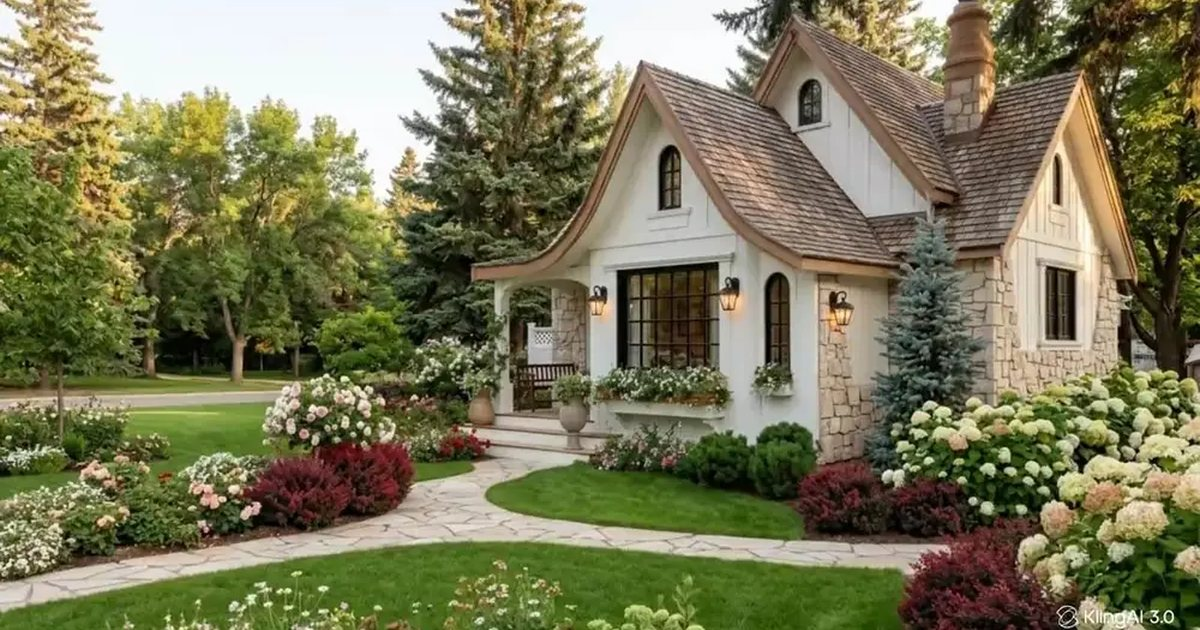
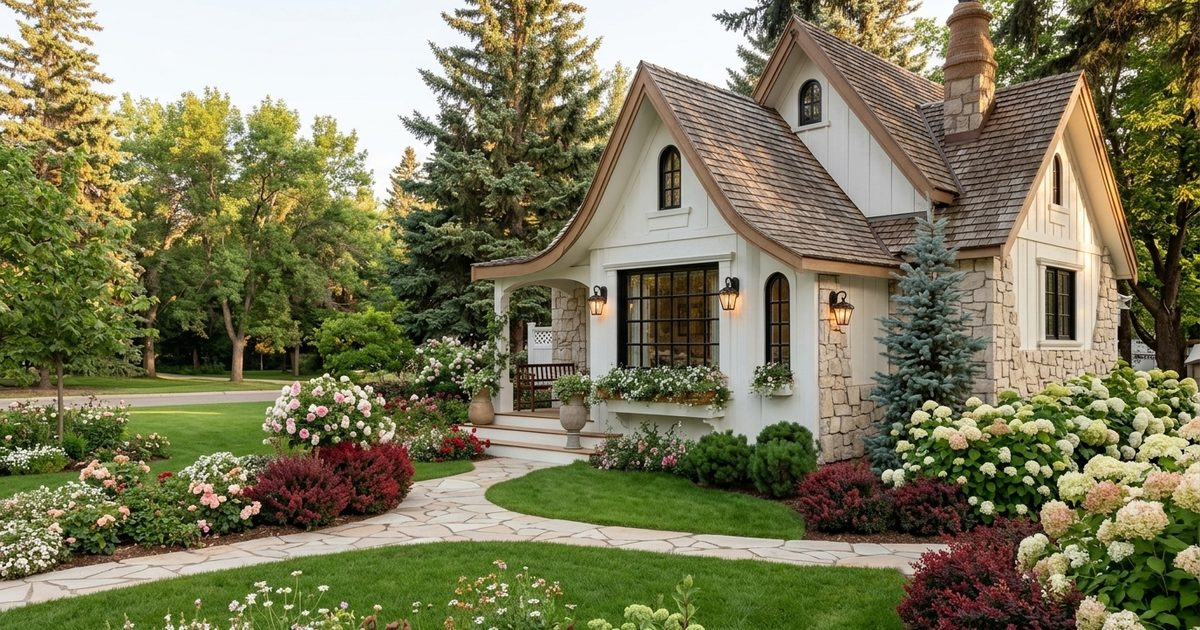
Add files via upload

diff --git a/index.html b/index.html
@@ -26,7 +26,7 @@
 <link rel="apple-touch-icon" href="apple-touch-icon.png">
 <link rel="preconnect" href="https://fonts.googleapis.com">
 <link rel="preconnect" href="https://fonts.gstatic.com" crossorigin>
-<link rel="preload" as="image" href="assets/hero-poster-1ece85d9.webp" fetchpriority="high">
+<link rel="preload" as="image" href="assets/hero-photo-04efccb4.webp" fetchpriority="high">
 <link rel="preload" as="style" href="https://fonts.googleapis.com/css2?family=Manrope:wght@400;500;600;700&family=Cormorant+Garamond:wght@500;600&family=Playfair+Display:wght@800;900&display=swap" onload="this.onload=null;this.rel='stylesheet'">
 <noscript><link rel="stylesheet" href="https://fonts.googleapis.com/css2?family=Manrope:wght@400;500;600;700&family=Cormorant+Garamond:wght@500;600&family=Playfair+Display:wght@800;900&display=swap"></noscript>
 <style>
@@ -38,20 +38,23 @@ h2{font-size:clamp(2rem,4vw,3.25rem);color:var(--g)}h3{font-size:1.375rem;font-w
 a{color:inherit}button{font:inherit;cursor:pointer}
 :focus-visible{outline:3px solid var(--bord);outline-offset:3px}.hero :focus-visible,header.open :focus-visible{outline-color:#fff}
 .w{max-width:1480px;margin:0 auto;padding:0 40px}
-section{padding:28px 0 0}
+section{padding:120px 0 0}
 .btn{display:inline-flex;align-items:center;justify-content:center;min-height:48px;background:var(--g);color:var(--bg);border:0;border-radius:99px;padding:0 28px;font:600 .95rem var(--sans);text-decoration:none;transition:background .25s}
 .btn:hover{background:var(--g0)}
 .btn.r{background:var(--bord);color:#fff}.btn.r:hover{background:#62202D}
 .btn.o{background:none;color:var(--g);box-shadow:inset 0 0 0 1.5px var(--g)}.btn.o:hover{background:var(--g);color:var(--bg)}
-.hero .btn.r{background:var(--bg);color:var(--g)}.hero .btn.r:hover{background:#fff}
+.hero .btn.r{background:var(--bg);color:var(--lr)}.hero .btn.r:hover{background:#fff}
 .btn.l{background:none;color:#fff;box-shadow:inset 0 0 0 1.5px rgba(255,255,255,.85)}.btn.l:hover{background:rgba(255,255,255,.14)}
+/* кнопки на фото: світлі, з червоними літерами (червоний текст прямо на фото не читався б) */
+.hero .btn.l{background:rgba(245,241,233,.9);color:var(--lr);box-shadow:none}
+.hero .btn.l:hover{background:#fff}
 /* header */
 header{position:fixed;left:0;right:0;top:env(safe-area-inset-top,0px);z-index:5;pointer-events:none;transition:background .3s,box-shadow .3s}
 header.dk{background:var(--paper);box-shadow:0 8px 30px rgba(23,64,44,.1)}
 .nav{pointer-events:auto;max-width:1480px;margin:0 auto;padding:14px 40px;display:flex;align-items:center;gap:16px}
-.logo{font:900 clamp(2.4rem,6vw,5.5rem)/1 'Playfair Display',Georgia,serif;letter-spacing:-.02em;color:var(--lr);text-decoration:none;margin-right:auto;transition:font-size .3s}
+.logo{font:900 clamp(1.8rem,4.5vw,4.125rem)/1 'Playfair Display',Georgia,serif;letter-spacing:-.02em;color:var(--lr);text-decoration:none;margin-right:auto;transition:font-size .3s}
 .logo i{font-style:normal;color:var(--lg)}
-header.dk .logo{font-size:clamp(2rem,3.4vw,2.8rem)}
+header.dk .logo{font-size:clamp(1.5rem,2.55vw,2.1rem)}
 nav{display:flex;gap:4px}
 nav a{padding:9px 18px;border-radius:99px;text-decoration:none;font-weight:600;font-size:.95rem;color:#fff;transition:background .2s;white-space:nowrap}
 nav a:hover,nav a.on{background:rgba(255,255,255,.18)}
@@ -61,7 +64,11 @@ header.dk nav a:hover,header.dk nav a.on{background:rgba(23,64,44,.08)}
 .lg button{background:none;border:0;border-radius:99px;padding:5px 12px;font-weight:700;font-size:.82rem;color:#fff}
 .lg button.on{background:#fff;color:var(--g)}
 header.dk .lg{box-shadow:inset 0 0 0 1.5px var(--ln)}header.dk .lg button{color:var(--ink)}header.dk .lg button.on{background:var(--g);color:#fff}
-.gb{background:var(--lr);color:#fff;border:0;border-radius:99px;padding:0 20px;min-height:44px;font-weight:700}
+/* кошик — прозора кнопка з контуром, як перемикач мови поруч */
+.gb{background:none;color:#fff;border:0;border-radius:99px;padding:0 20px;min-height:44px;font-weight:700;display:inline-flex;align-items:center;justify-content:center;gap:8px;box-shadow:inset 0 0 0 1.5px rgba(255,255,255,.6);transition:background .2s}
+.gb:hover{background:rgba(255,255,255,.14)}
+header.dk .gb{color:var(--ink);box-shadow:inset 0 0 0 1.5px var(--ln)}
+header.dk .gb:hover{background:rgba(23,64,44,.08)}
 
 .bg{display:none;width:44px;height:44px;border:0;background:none;color:#fff;position:relative}
 .bg span,.bg span::before{content:"";position:absolute;left:11px;width:22px;height:2px;background:currentColor;transition:transform .25s}
@@ -70,26 +77,23 @@ header.dk .bg{color:var(--ink)}
 header.open .bg span{transform:rotate(45deg)}header.open .bg span::before{transform:translateY(7px) rotate(-90deg)}
 /* hero */
 @supports(height:100svh){:root{--vh:100svh}} /* висота hero до запуску JS = висоті першого екрана на телефоні, щоб не було стрибка при завантаженні */
-#scroll-container{position:relative;height:calc(var(--vh,100vh)*2)}
+#scroll-container{position:relative;height:var(--vh,100vh)}
 .hero{position:relative;width:100vw;margin-left:calc(50% - 50vw);background:var(--g0);color:#fff;overflow:hidden}
-#scroll-container .hero{position:sticky;top:0;height:var(--vh,100vh)}
-.hero img,.hero video{position:absolute;inset:0;width:100%;height:100%;object-fit:cover;object-position:50% 55%}
-/* У файлі відео вшиті чорні смуги (по 28 px зверху й знизу з 720). Блок відео вищий на 720/664 і зсунутий угору на 28/664, тож смуги виходять за межі .hero (overflow:hidden). Постер — перший кадр без смуг (1280×664), тому перехід постер→відео без стрибка. Відео з’являється плавно, коли справді почало грати. */
-.hero video{height:calc(100%*720/664);top:calc(-100%*28/664);bottom:auto;opacity:0;transition:opacity .4s ease}
-.hero video.on{opacity:1}
-.hs{position:absolute;inset:0;background:linear-gradient(90deg,rgba(15,42,29,.68),rgba(15,42,29,.08) 65%),linear-gradient(180deg,rgba(15,42,29,.5),transparent 28%,rgba(15,42,29,.5))}
+#scroll-container .hero{position:relative;height:100%}
+.hero img{position:absolute;inset:0;width:100%;height:100%;object-fit:cover;object-position:50% 55%}
+.hs{position:absolute;inset:0;background:linear-gradient(0deg,rgba(15,42,29,.62),rgba(15,42,29,.30) 38%,transparent 62%),linear-gradient(90deg,rgba(15,42,29,.26),transparent 54%),linear-gradient(180deg,rgba(15,42,29,.45),transparent 22%)}
+/* легкий шар на фото + м’яка тінь під білим текстом, щоб фото лишалось яскравим, а текст — читабельним */
+.hero h1,.hero .ha p{text-shadow:0 2px 20px rgba(15,42,29,.45)}
+header:not(.dk):not(.open) nav a:not([data-p=catalog]){text-shadow:0 1px 10px rgba(15,42,29,.55)}
 .hc{position:relative;height:100%;display:flex;flex-direction:column;justify-content:flex-end;gap:32px;padding:120px max(40px,calc(50vw - 700px)) 72px;will-change:transform,opacity}
 .hero h1{font-size:clamp(2.75rem,6.4vw,5.25rem);line-height:1.02;max-width:18ch;text-wrap:balance;margin:0;color:#fff}
 .ha{display:flex;flex-direction:column;align-items:flex-start;gap:24px}
 .hero .ha p{margin:0;color:#fff;max-width:46ch;font-size:1.125rem}
 .hero .ha p:first-child{display:flex;gap:12px;flex-wrap:wrap}.hero .ha p:last-child{order:-1}
-#hero-overlay{position:absolute;inset:0;z-index:5;display:flex;align-items:center;justify-content:center;text-align:center;padding:48px;opacity:0;pointer-events:none;will-change:opacity,transform}
-.hero-overlay-label{font:500 clamp(2.25rem,5vw,4rem)/1.05 var(--serif);color:#fff;margin:0;text-shadow:0 2px 24px rgba(0,0,0,.4)}
-@media(prefers-reduced-motion:reduce){#scroll-container{height:auto}#scroll-container .hero{position:relative;height:auto;min-height:90svh}.hero video,#hero-overlay{display:none}}
 /* page titles */
 .pg:not(#home)>section:first-child{padding-top:0}
 .pg:not(#home)>section:first-child>h2:first-child{background:var(--sand);box-shadow:0 0 0 100vmax var(--sand);clip-path:inset(0 -100vmax);padding:75px 0 28px;margin:0 0 28px}
-.pg:not(#home){margin-top:28px}
+.pg:not(#home){margin-top:120px}
 .sub{font:600 clamp(1.5rem,2.4vw,2rem)/1.2 var(--serif);margin:-8px 0 32px}
 .more{margin:28px 0 0;text-align:center}
 /* product grid + cards */
@@ -131,28 +135,28 @@ header.open .bg span{transform:rotate(45deg)}header.open .bg span::before{transf
 .sp .t{position:absolute;left:0;right:0;bottom:0;z-index:1;padding:24px;display:flex;flex-direction:column;gap:4px}
 .sp b{font:500 1.7rem/1.1 var(--serif)}.sp small{font-size:.9rem}
 /* finder */
-#finder .q{max-width:none;background:var(--paper);border:1px solid var(--ln);border-radius:20px;padding:64px}
+#finder .q{max-width:none;background:var(--paper);border:1px solid var(--ln);border-radius:0;padding:64px}
 #fq .st{font:600 .9rem var(--sans);color:var(--bord)}
 #fq h3{font:500 clamp(2rem,3.6vw,3rem)/1.1 var(--serif);margin:12px 0 0}
 .bar{height:6px;background:var(--sage);border-radius:9px;margin-bottom:28px}.bar i{display:block;height:100%;background:var(--g);border-radius:9px;transition:width .3s}
 #fq .opts{display:grid;grid-template-columns:repeat(auto-fit,minmax(200px,1fr));gap:12px;margin-top:32px}
-#fq .chip{border:1px solid var(--ln);background:var(--bg);border-radius:14px;padding:22px 20px;font:500 1.05rem var(--sans);text-align:left;color:var(--ink);transition:background .2s,color .2s}
+#fq .chip{border:1px solid var(--ln);background:var(--bg);border-radius:0;padding:22px 20px;font:500 1.05rem var(--sans);text-align:left;color:var(--ink);transition:background .2s,color .2s}
 #fq .chip:hover{background:var(--g);color:#fff;border-color:var(--g)}
 #fq .grid{grid-template-columns:repeat(auto-fill,minmax(210px,1fr));margin:32px 0}
 /* guide + reviews */
 #arts{display:grid;grid-template-columns:repeat(4,1fr);gap:28px}
-#arts .card,.two .card{background:var(--paper);border:1px solid var(--ln);border-radius:12px}
+#arts .card,.two .card{background:var(--paper);border:1px solid var(--ln);border-radius:0}
 #arts .card .b,.two .card .b{display:flex;flex-direction:column;gap:12px;padding:32px}
 #arts .card h3,.two .card h3{font-size:1.6rem}#arts .card p,.two .card p{margin:0}
 .two{display:grid;grid-template-columns:1fr 1fr;gap:28px}
 .two .card:first-child{background:var(--g);border-color:var(--g);color:#EAF2EA}
-#guide>section+section,#reviews>section+section{padding-top:28px}
+#guide>section+section,#reviews>section+section{padding-top:120px}
 #rv{display:grid;grid-template-columns:repeat(3,1fr);gap:28px}
-.rv{display:flex;flex-direction:column;gap:14px;padding:32px;background:var(--paper);border:1px solid var(--ln);border-radius:12px}
+.rv{display:flex;flex-direction:column;gap:14px;padding:32px;background:var(--paper);border:1px solid var(--ln);border-radius:0}
 .rv .stars{color:var(--bord);letter-spacing:.12em}
 .rv p{margin:0}.rv .who{margin-top:auto;display:flex;flex-direction:column;font-size:.9rem}.rv .who small{color:var(--mut)}
 /* cart + checkout */
-#gp{position:fixed;right:24px;top:calc(84px + env(safe-area-inset-top,0px));width:min(360px,calc(100% - 32px));max-height:calc(100vh - 110px);overflow-y:auto;background:var(--paper);border:1px solid var(--ln);border-radius:16px;padding:22px;z-index:6;display:none;box-shadow:0 16px 40px rgba(23,64,44,.16)}
+#gp{position:fixed;right:24px;top:calc(84px + env(safe-area-inset-top,0px));width:min(360px,calc(100% - 32px));max-height:calc(100vh - 110px);overflow-y:auto;background:var(--paper);border:1px solid var(--ln);border-radius:0;padding:22px;z-index:6;display:none;box-shadow:0 16px 40px rgba(23,64,44,.16)}
 .gh{font:600 1.5rem var(--serif);margin:0 0 .5em}
 #gp ul{padding:0;list-style:none;margin:8px 0}#gp li{display:flex;align-items:center;justify-content:space-between;gap:8px;padding:6px 0}
 #gp li>span:first-child{flex:1;min-width:0}#gp .lp{white-space:nowrap;min-width:4.5em;text-align:right}
@@ -161,17 +165,17 @@ header.open .bg span{transform:rotate(45deg)}header.open .bg span::before{transf
 .qt button{width:26px;height:26px;border-radius:50%;border:0;background:var(--sage);color:var(--g);font:700 1rem/1 var(--sans);padding:0 0 2px}.qt button:hover{background:var(--g);color:#fff}.qt b{min-width:1.2em;text-align:center}
 #co{position:fixed;inset:0;z-index:20;display:flex;overflow-y:auto;padding:24px 16px}
 .co-bd{position:fixed;inset:0;background:rgba(15,42,29,.62)}
-.co-box{position:relative;background:var(--paper);border-radius:18px;width:min(920px,100%);margin:auto;padding:40px}
+.co-box{position:relative;background:var(--paper);border-radius:0;width:min(920px,100%);margin:auto;padding:40px}
 .co-x{position:absolute;top:14px;right:16px;width:44px;height:44px;border:0;border-radius:50%;background:var(--sage);color:var(--g);font:700 1.5rem/1 var(--sans);padding:0 0 3px}.co-x:hover{background:var(--g);color:#fff}
 .co-box h3{font-size:clamp(1.8rem,3vw,2.4rem);margin:0 48px 0 0}
 .co-box h4{font:600 .95rem var(--sans);color:var(--bord);margin:0 0 14px}
 .co-grid{display:grid;grid-template-columns:1.2fr 1fr;gap:32px;margin-top:24px;align-items:start}
 #cof label{display:flex;flex-direction:column;gap:6px;font-weight:600;font-size:.92rem;margin-bottom:14px}
-#cof input[type=text],#cof input[type=tel],#cof textarea{font:400 1rem var(--sans);padding:13px 16px;border:1px solid var(--ln);border-radius:10px;background:#fff;color:var(--ink);width:100%;resize:vertical}
+#cof input[type=text],#cof input[type=tel],#cof textarea{font:400 1rem var(--sans);padding:13px 16px;border:1px solid var(--ln);border-radius:0;background:#fff;color:var(--ink);width:100%;resize:vertical}
 #cof input:user-invalid{border-color:var(--bord)}#cof h4:nth-of-type(2){margin-top:10px}
 .co-pay{display:flex;flex-direction:column}#cof .co-pay label{flex-direction:row;align-items:center;gap:10px;font-weight:500;margin-bottom:8px}
 #cof .co-pay input{accent-color:var(--g);width:18px;height:18px;margin:0}
-.co-sum{background:var(--sand);border-radius:14px;padding:24px}
+.co-sum{background:var(--sand);border-radius:0;padding:24px}
 .co-sum ul{list-style:none;margin:0;padding:0}.co-sum li{display:flex;justify-content:space-between;gap:12px;padding:9px 0;border-bottom:1px solid rgba(31,42,35,.12)}
 .co-sum li em{font-style:normal;color:var(--mut)}.co-sum li b{white-space:nowrap}
 .cot{display:flex;justify-content:space-between;font-weight:800;font-size:1.2rem;padding:14px 0 8px}.cot b{color:var(--bord)}
@@ -188,10 +192,10 @@ footer .fb{margin-top:48px;padding-top:20px;border-top:1px solid rgba(255,255,25
 /* responsive */
 @media(max-width:1100px){.grid{grid-template-columns:repeat(3,1fr);gap:24px 20px}#arts{grid-template-columns:1fr 1fr}#rv{grid-template-columns:1fr 1fr}.nav{padding:12px 24px}.w{padding:0 24px}.hc{padding-inline:24px}}
 @media(max-width:900px){.sp-grid{grid-template-columns:1fr 1fr}.two{grid-template-columns:1fr}.co-grid{grid-template-columns:1fr}footer .fg{grid-template-columns:1fr 1fr}footer .fg>div:first-child{grid-column:1/-1}}
-/* Компактна шапка (бургер) тепер вмикається до 1280px: на планшетах повний ряд меню не вміщувався й виштовхував мову та «Мій сад» за екран. Шрифти й розміри не змінено. */
+/* Компактна шапка (бургер) тепер вмикається до 1280px: на планшетах повний ряд меню не вміщувався й виштовхував мову та кошик за екран. Шрифти й розміри не змінено. */
 @media(max-width:1280px){.bg{display:block;order:4}.lg{order:2}.gb{order:3}nav{display:none}header.open nav{display:flex;position:fixed;inset:0;z-index:-1;background:var(--g0);flex-direction:column;justify-content:center;align-items:flex-start;padding:0 32px;gap:6px}header.open nav a{font:500 2.25rem/1.2 var(--serif);padding:8px 0;color:#fff}header.open nav a.on{background:none;color:#E39AA8}header.open .logo,header.open .logo i,header.open .bg{color:#fff}header.open .gb,header.open .lg{visibility:hidden}}
 @media(max-width:760px){
-section{padding-top:32px}.pg:not(#home){margin-top:32px}footer{margin-top:32px;padding-top:48px}
+section{padding-top:72px}.pg:not(#home){margin-top:72px}footer{margin-top:32px;padding-top:48px}
 .w{padding:0 20px}.hc{padding:120px 20px 48px}.nav{padding:10px 16px;gap:8px}
 .bg{display:block;order:4}.lg{order:2}.gb{order:3;padding:0 14px;font-size:.88rem}
 nav{display:none}header.open nav{display:flex;position:fixed;inset:0;z-index:-1;background:var(--g0);flex-direction:column;justify-content:center;align-items:flex-start;padding:0 32px;gap:6px}
@@ -208,7 +212,7 @@ header.open .logo,header.open .logo i,header.open .bg{color:#fff}header.open .gb
 #q{max-width:none}
 #finder .q{padding:32px 20px}#fq .grid{grid-template-columns:1fr 1fr;gap:36px 14px}
 #arts,#rv{grid-template-columns:1fr;gap:16px}.two{gap:16px}
-#gp{top:auto;bottom:0;left:0;right:0;width:auto;border-radius:18px 18px 0 0;max-height:70vh}
+#gp{top:auto;bottom:0;left:0;right:0;width:auto;border-radius:0;max-height:70vh}
 #co{padding:0}.co-box{border-radius:0;min-height:100%;padding:28px 20px}
 }
 /* Поява блоків при прокручуванні */
@@ -242,9 +246,9 @@ header.open .logo,header.open .logo i,header.open .bg{color:#fff}header.open .gb
 .ai.op .ap{grid-template-rows:1fr}
 .ai.op .ap p{opacity:1;transform:none;transition-delay:.12s}
 /* Фінал */
-.fin{margin-top:72px;padding:0 0 32px;background:var(--g0);position:relative;overflow:hidden;color:var(--bg)}
+.fin{margin-top:120px;padding:0 0 32px;background:var(--g0);position:relative;overflow:hidden;color:var(--bg)}
 .fin .fg,.fin .fb{position:relative}.fin .fg{padding-top:64px;border-top:1px solid rgba(255,255,255,.14);max-width:1200px}.fin .btn:hover{text-decoration:none}
-.fin::before{content:"";position:absolute;inset:-40% -20%;background:radial-gradient(closest-side,rgba(123,42,58,.55),transparent 70%) 20% 30%/60% 60% no-repeat,radial-gradient(closest-side,rgba(29,91,58,.7),transparent 70%) 80% 70%/60% 60% no-repeat;animation:glow 14s ease-in-out infinite alternate;pointer-events:none}
+.fin::before{content:"";position:absolute;inset:-40% -20%;background:radial-gradient(closest-side,rgba(29,91,58,.7),transparent 70%) 20% 30%/60% 60% no-repeat,radial-gradient(closest-side,rgba(29,91,58,.7),transparent 70%) 80% 70%/60% 60% no-repeat;animation:glow 14s ease-in-out infinite alternate;pointer-events:none}
 @keyframes glow{to{transform:translate3d(6%,-4%,0) rotate(8deg)}}
  .fin-in{position:relative;padding:112px 20px 48px;text-align:center;max-width:860px;margin:0 auto}
 .fin-k{margin:0 0 20px;font:600 .8rem var(--sans);letter-spacing:.4em;color:rgba(245,241,233,.6)}
@@ -261,20 +265,27 @@ header.open .logo,header.open .logo i,header.open .bg{color:#fff}header.open .gb
 @media(max-width:900px){.steps{grid-template-columns:1fr 1fr;gap:36px 24px}.steps::before,.steps::after{display:none}}
 @media(max-width:600px){.steps{grid-template-columns:1fr;gap:28px;padding-left:76px}.steps::before,.steps::after{display:block;left:27px;right:auto;top:28px;bottom:28px;width:2px;height:auto}.steps::after{transform-origin:top;transform:scaleY(var(--p))}.sn{position:absolute;left:-76px;top:0}.stp h3{margin-top:10px}.fin-in{padding:72px 20px 32px}.ap p{padding-right:8px}}
 @media(prefers-reduced-motion:reduce){.rvl [data-rv],.fin-h .w8,.fin-p,.fin-b,.fin-k{opacity:1!important;transform:none!important;filter:none!important;transition:none!important}.fin::before{animation:none}.ap,.ap p,.pm,.pm::after{transition:none}}
+/* «Каталог» у меню — червона кнопка */
+header nav a[data-p=catalog]{background:var(--lr);color:#fff}
+header nav a[data-p=catalog]:hover,header nav a[data-p=catalog].on,header.dk nav a[data-p=catalog],header.dk nav a[data-p=catalog]:hover,header.dk nav a[data-p=catalog].on{background:var(--lr);color:#fff}
+header nav a[data-p=catalog]:hover,header.dk nav a[data-p=catalog]:hover{background:#8C1414}
+header.open nav a[data-p=catalog],header.open nav a[data-p=catalog].on{padding:8px 24px;background:var(--lr);color:#fff}
+/* відстані між секціями: 120px на комп’ютері й планшеті, 72px на телефоні (правило стоїть останнім, щоб перебити базові) */
+@media(max-width:760px){section{padding-top:72px}.pg:not(#home){margin-top:72px}.fin{margin-top:72px}}
 </style>
 </head><body>
 <header><div class="nav"><a class="logo" href="#home">VERD<i>E</i></a>
 <nav><a href="#home" data-p="home">Головна</a><a href="#finder" data-p="finder">Підбір рослин</a><a href="#catalog" data-p="catalog">Каталог</a><a href="#guide" data-p="guide">Гід і доставка</a><a href="#reviews" data-p="reviews">Відгуки</a></nav>
 <div class="lg" role="group" aria-label="Мова / Language"><button data-l="uk" class="on" aria-pressed="true">UA</button><button data-l="en" aria-pressed="false">EN</button></div>
-<button class="gb" id="gbtn">Мій сад: <span id="gc">0</span></button><button class="bg" id="bg" type="button" aria-label="Меню" aria-expanded="false"><span></span></button></div></header>
-<div id="gp"><p class="gh">Мій сад</p><ul id="gl"></ul><div id="gt"></div><button class="btn r" id="gco" type="button" hidden>Оформити замовлення</button></div>
+<button class="gb" id="gbtn" aria-label="Кошик"><svg width="20" height="20" viewBox="0 0 24 24" fill="none" stroke="currentColor" stroke-width="2" stroke-linecap="round" stroke-linejoin="round" aria-hidden="true"><circle cx="9" cy="21" r="1"/><circle cx="20" cy="21" r="1"/><path d="M1 1h4l2.68 13.39a2 2 0 0 0 2 1.61h9.72a2 2 0 0 0 2-1.61L23 6H6"/></svg><span id="gc">0</span></button><button class="bg" id="bg" type="button" aria-label="Меню" aria-expanded="false"><span></span></button></div></header>
+<div id="gp"><p class="gh">Кошик</p><ul id="gl"></ul><div id="gt"></div><button class="btn r" id="gco" type="button" hidden>Оформити замовлення</button></div>
 <main class="w">
 <noscript><p style="padding:96px 20px 20px;max-width:640px">Для роботи каталогу, підбору рослин і кошика потрібен увімкнений JavaScript.</p></noscript>
 <div class="pg" id="home">
-<div id="scroll-container"><div class="hero" id="hero"><img src="assets/hero-poster-1ece85d9.webp" alt="Затишний будинок у саду з гортензіями" width="1280" height="664" fetchpriority="high" decoding="async"><video id="bg-video" muted loop playsinline preload="none" aria-hidden="true" width="1280" height="720" poster="assets/hero-poster-1ece85d9.webp" data-src="assets/hero-video-loop-7c3a1e52.mp4"></video><div class="hs"></div><div class="hc"><h1>Створимо сад, де захочеться бути</h1><div class="ha"><p><a class="btn r" href="#finder">Підібрати рослини</a><a class="btn l" href="#catalog">Дивитись каталог</a></p><p>Продаємо рослини, які перетворять вашу ділянку на сад мрії</p></div></div><div id="heroart" hidden></div><div id="hero-overlay"></div></div></div>
+<div id="scroll-container"><div class="hero" id="hero"><img src="assets/hero-photo-04efccb4.webp" alt="Затишний будинок у саду з гортензіями" width="1376" height="768" fetchpriority="high" decoding="async"><div class="hs"></div><div class="hc"><h1>Створимо сад, де захочеться бути</h1><div class="ha"><p><a class="btn r" href="#finder">Підібрати рослини</a><a class="btn l" href="#catalog">Дивитись каталог</a></p><p>Продаємо рослини, які перетворять<br>вашу ділянку на сад мрії</p></div></div><div id="heroart" hidden></div></div></div>
 <section><h2>Підбір рослин для вашого простору</h2><p class="sub">Де ви садитимете?</p><div class="grid" id="spaces"></div></section>
 <section class="hw" aria-labelledby="hw-t"><h2 id="hw-t">Як це працює</h2><p class="sub">Від ідеї до саду — чотири кроки</p>
-<ol class="steps" id="steps"><li class="stp"><span class="sn" aria-hidden="true">01</span><h3>Підбір</h3><p>Відповідаєте на кілька питань про ділянку, світло й ґрунт — ми пропонуємо рослини, що приживуться.</p></li><li class="stp"><span class="sn" aria-hidden="true">02</span><h3>Замовлення</h3><p>Додаєте рослини в «Мій сад» і оформлюєте замовлення за хвилину.</p></li><li class="stp"><span class="sn" aria-hidden="true">03</span><h3>Пакування</h3><p>Пакуємо в захисні короби із закритим кореневим комом, щоб рослина не відчула дороги.</p></li><li class="stp"><span class="sn" aria-hidden="true">04</span><h3>Посадка</h3><p>Отримуєте за 2–4 дні з інструкцією з посадки та догляду.</p></li></ol></section>
+<ol class="steps" id="steps"><li class="stp"><span class="sn" aria-hidden="true">01</span><h3>Підбір</h3><p>Відповідаєте на кілька питань про ділянку, світло й ґрунт — ми пропонуємо рослини, що приживуться.</p></li><li class="stp"><span class="sn" aria-hidden="true">02</span><h3>Замовлення</h3><p>Додаєте рослини в кошик і оформлюєте замовлення за хвилину.</p></li><li class="stp"><span class="sn" aria-hidden="true">03</span><h3>Пакування</h3><p>Пакуємо в захисні короби із закритим кореневим комом, щоб рослина не відчула дороги.</p></li><li class="stp"><span class="sn" aria-hidden="true">04</span><h3>Посадка</h3><p>Отримуєте за 2–4 дні з інструкцією з посадки та догляду.</p></li></ol></section>
 </div>
 <div class="pg" id="finder"><section><h2>Підбір рослин для вашого простору</h2><div class="q" id="fq"></div></section></div>
 <div class="pg" id="catalog"><section><h2>Каталог рослин</h2><input type="search" id="q" placeholder="Пошук рослини" aria-label="Пошук рослини"><div class="chips" id="cc"></div><div class="chips" id="cs"></div><p id="cn" style="color:var(--mut)"></p><div class="grid" id="cg"></div></section></div>
@@ -296,7 +307,7 @@ header.open .logo,header.open .logo i,header.open .bg{color:#fff}header.open .gb
 <div id="co-ok" hidden><h3 tabindex="-1" id="co-okt">Дякуємо за замовлення!</h3><p class="coN"><span>Номер замовлення:</span> <b id="co-no"></b></p><p class="coN"><span>Сума:</span> <b id="co-tot"></b></p><p class="coN" id="co-who"></p><p>Ми зателефонуємо вам, щоб підтвердити замовлення та узгодити відправлення.</p><button class="btn" type="button" id="co-more">Продовжити покупки</button></div>
 </div></div>
 </main>
-<footer class="fin" aria-labelledby="fin-t"><div class="fin-in"><p class="fin-k">VERDE</p><h2 id="fin-t" class="fin-h">Ваш сад починається з першої рослини</h2><p class="fin-p">Підберемо рослини під ваше світло, ґрунт і настрій — і привеземо їх живими та здоровими.</p></div><div class="w fg"><div><b class="fl">VERDE</b><p>Рослини для життя на свіжому повітрі: хвойні, троянди, півонії, кущі й дерева.</p></div><div><h4>Контакти</h4><p><a href="tel:+380440000000">+38 (044) 000-00-00</a><br><a href="mailto:hello@verde.example">hello@verde.example</a></p></div><div><h4>Адреса</h4><p>м. Київ, вул. Садова, 12<br>Щодня 9:00–19:00</p></div><div><h4>Соцмережі</h4><p><a href="https://www.instagram.com/" target="_blank" rel="noopener noreferrer">Instagram</a><br><a href="https://www.facebook.com/" target="_blank" rel="noopener noreferrer">Facebook</a><br><a href="https://t.me/" target="_blank" rel="noopener noreferrer">Telegram</a></p></div></div><div class="w fb">Навчальний портфоліо-проєкт. Ціни умовні.</div></footer>
+<footer class="fin" aria-labelledby="fin-t"><div class="fin-in"><h2 id="fin-t" class="fin-h">Ваш сад починається з першої рослини</h2><p class="fin-p">Підберемо рослини під ваше світло, ґрунт і настрій — і привеземо їх живими та здоровими.</p></div><div class="w fg"><div><b class="fl">VERDE</b><p>Рослини для життя на свіжому повітрі: хвойні, троянди, півонії, кущі й дерева.</p></div><div><h4>Контакти</h4><p><a href="tel:+380440000000">+38 (044) 000-00-00</a><br><a href="mailto:hello@verde.example">hello@verde.example</a></p></div><div><h4>Адреса</h4><p>м. Київ, вул. Садова, 12<br>Щодня 9:00–19:00</p></div><div><h4>Соцмережі</h4><p><a href="https://www.instagram.com/" target="_blank" rel="noopener noreferrer">Instagram</a><br><a href="https://www.facebook.com/" target="_blank" rel="noopener noreferrer">Facebook</a><br><a href="https://t.me/" target="_blank" rel="noopener noreferrer">Telegram</a></p></div></div><div class="w fb">Навчальний портфоліо-проєкт. Ціни умовні.</div></footer>
 <script>const IMG={t2:"assets/img-fig-t2.webp",j11:"assets/img-fig-j11.webp",p4:"assets/img-baca45cb.webp",p5:"assets/img-2be5d8dc.webp",i5:"assets/img-39019de8.webp",i7:"assets/img-fig-i7.webp",i8:"assets/img-f77bb157.webp?v=2",i9:"assets/img-fig-i9.webp",i10:"assets/img-fig-i10.webp",i11:"assets/img-ccd597ab.webp",n6:"assets/img-d2c27d89.webp",n7:"assets/img-c94e033d.webp",n8:"assets/img-b02e64e5.webp",n13:"assets/img-b72f77f3.webp",n14:"assets/img-bda2439f.webp",n15:"assets/img-e732293e.webp",n16:"assets/img-38bafc45.webp?v=2",n17:"assets/img-7b3e80df.webp",n18:"assets/img-aae344a5.webp?v=2",n19:"assets/img-fig-n19.webp"};</script>
 <script>
 const P=[
@@ -331,7 +342,7 @@ else if(t=="кущі")s+=[[36,48,20],[62,46,22],[50,34,22]].map(a=>`<circle cx="
 else s+=`<rect x="47" y="44" width="6" height="30" fill="#6b4a3a"/>`+[[50,28,24],[34,38,14],[66,38,14]].map(a=>`<circle cx="${a[0]}" cy="${a[1]}" r="${a[2]}" fill="${c}"/>`).join("")+`<circle cx="50" cy="26" r="10" fill="${g}" opacity=".35"/>`;
 return s+'</svg>'}
 const G=new Set(JSON.parse("[]"));
-function card(i){const p=P[i];return `<div class="card"><div class="im">${PH[i]?`<img src="${IMG[PH[i]]}" alt="${p[0]}" width="480" height="600" loading="lazy" decoding="async">`:art(p)}</div><div class="b"><span class="tag">${p[1]}</span><h3>${p[0]}</h3><small>${[...p[2]].map(x=>SUN[x]).join(" / ")} · ${CARE[p[3]]} · ${p[6]}</small><small>${p[9]}</small><div class="pr">${p[5]} ₴</div><button class="add ${G.has(i)?"in":""}" data-i="${i}">${G.has(i)?"У саду ✓":"Додати в сад"}</button></div></div>`}
+function card(i){const p=P[i];return `<div class="card"><div class="im">${PH[i]?`<img src="${IMG[PH[i]]}" alt="${p[0]}" width="480" height="600" loading="lazy" decoding="async">`:art(p)}</div><div class="b"><span class="tag">${p[1]}</span><h3>${p[0]}</h3><small>${[...p[2]].map(x=>SUN[x]).join(" / ")} · ${CARE[p[3]]} · ${p[6]}</small><small>${p[9]}</small><div class="pr">${p[5]} ₴</div><button class="add ${G.has(i)?"in":""}" data-i="${i}">${G.has(i)?"У кошику ✓":"Додати в кошик"}</button></div></div>`}
 let cat="усі",sun="будь-яке";
 function cats(){$("#cc").innerHTML=["усі","хвойні","квіти","кущі","дерева"].map(c=>`<button class="chip ${c==cat?"on":""}" data-c="${c}">${c[0].toUpperCase()+c.slice(1)}</button>`).join("");
 $("#cs").innerHTML=["будь-яке","Сонце","Півтінь","Тінь"].map(c=>`<button class="chip ${c==sun?"on":""}" data-s="${c}">${c=="будь-яке"?"Освітлення: будь-яке":c}</button>`).join("")}
@@ -363,39 +374,10 @@ addEventListener("scroll",spy,{passive:true});
 document.querySelectorAll("nav a,.logo").forEach(a=>a.addEventListener("click",()=>{$("#gp").style.display="none"}));
 refresh();ask();spy();
 
-/* ---- scroll-анімація hero ---- */
-(function(){
-  function setVh(){const h=window.visualViewport?window.visualViewport.height:window.innerHeight;document.documentElement.style.setProperty('--vh',h+'px')}
-  setVh();let rt;const rs=()=>{clearTimeout(rt);rt=setTimeout(()=>{setVh();lastP=-1},150)};
-  addEventListener('resize',rs);if(window.visualViewport)visualViewport.addEventListener('resize',rs);
-
-  const content=document.querySelector('#scroll-container .hc'),
-        overlay=document.getElementById('hero-overlay'),box=document.getElementById('scroll-container');
-  const still=matchMedia('(prefers-reduced-motion: reduce)').matches;
-  if(still)return;
-
-  let lastP=-1,smooth=0;
-  const ez=t=>t<.5?2*t*t:1-Math.pow(-2*t+2,2)/2;
-  function apply(p){
-    const i=ez(Math.max(0,Math.min(1,(p-.35)/.15))),o=ez(Math.max(0,Math.min(1,(p-.55)/.12)));
-    overlay.style.opacity=(i*(1-o)).toFixed(3);
-    overlay.style.transform='translateY('+((1-i)*30+o*-30)+'px)';
-  }
-  function tick(){
-    requestAnimationFrame(tick);
-    const track=box.offsetHeight-window.innerHeight;if(track<=0)return;
-    const top=box.getBoundingClientRect().top;
-    const target=Math.max(0,Math.min(1,-top/track));
-    smooth+=(target-smooth)*.14;if(Math.abs(target-smooth)<.0005)smooth=target;
-    if(Math.abs(smooth-lastP)<.0003)return;
-    lastP=smooth;apply(smooth);
-  }
-  tick();
-})();
 </script>
 <script>
 /* мова UA / EN */
-const EN={"Головна":"Home","Каталог":"Catalog","Підбір рослин":"Plant finder","Гід і доставка":"Guide & delivery","Мій сад:":"My garden:","Мій сад":"My garden","Створимо сад, де захочеться бути":"A garden where you’ll want to be","Продаємо рослини, які перетворять вашу ділянку на сад мрії":"We sell plants that turn your plot into a dream garden","Зробіть місце, де хочеться бути":"Make a place where you want to be","Підібрати рослини":"Find plants","Дивитись каталог":"Browse the catalog","Хвойні, троянди, півонії, кущі та дерева з українських розплідників. Підберемо рослини під сонце, ґрунт і ваш час на догляд.":"Conifers, roses, peonies, shrubs and trees from Ukrainian nurseries. We match plants to your sun, soil and the time you have to care for them.","Від ідеї до саду":"From idea to garden","Рослини, що":"Plants that","приживаються":"take root","надовго":"for good","Обирайте за простором":"Choose by space","Сад":"Garden","Доріжки, арки й шари кольору":"Paths, arches and layers of colour","Тераса і балкон":"Terrace & balcony","Квіти у вазонах біля місця відпочинку":"Potted flowers by your seating area","Подвір’я біля входу":"Front yard","Гарне перше враження":"A great first impression","Уздовж огорожі":"Along the fence","Гортензії й кущі, що цвітуть до осені":"Hydrangeas and shrubs that bloom until autumn","Каталог рослин":"Plant catalog","Усі":"All","Хвойні":"Conifers","Квіти":"Flowers","Кущі":"Shrubs","Дерева":"Trees","хвойні":"conifers","квіти":"flowers","кущі":"shrubs","дерева":"trees","Освітлення: будь-яке":"Light: any","Додати в сад":"Add to garden","У саду ✓":"In garden ✓","Нічого не знайдено — змініть фільтри.":"Nothing found — change the filters.","Поки порожньо. Додайте рослини з каталогу.":"Empty for now. Add plants from the catalog.",
+const EN={"Головна":"Home","Каталог":"Catalog","Підбір рослин":"Plant finder","Гід і доставка":"Guide & delivery","Кошик":"Cart","Створимо сад, де захочеться бути":"A garden where you’ll want to be","Продаємо рослини, які перетворять":"We sell plants that turn","вашу ділянку на сад мрії":"your plot into a dream garden","Зробіть місце, де хочеться бути":"Make a place where you want to be","Підібрати рослини":"Find plants","Дивитись каталог":"Browse the catalog","Хвойні, троянди, півонії, кущі та дерева з українських розплідників. Підберемо рослини під сонце, ґрунт і ваш час на догляд.":"Conifers, roses, peonies, shrubs and trees from Ukrainian nurseries. We match plants to your sun, soil and the time you have to care for them.","Від ідеї до саду":"From idea to garden","Рослини, що":"Plants that","приживаються":"take root","надовго":"for good","Обирайте за простором":"Choose by space","Сад":"Garden","Доріжки, арки й шари кольору":"Paths, arches and layers of colour","Тераса і балкон":"Terrace & balcony","Квіти у вазонах біля місця відпочинку":"Potted flowers by your seating area","Подвір’я біля входу":"Front yard","Гарне перше враження":"A great first impression","Уздовж огорожі":"Along the fence","Гортензії й кущі, що цвітуть до осені":"Hydrangeas and shrubs that bloom until autumn","Каталог рослин":"Plant catalog","Усі":"All","Хвойні":"Conifers","Квіти":"Flowers","Кущі":"Shrubs","Дерева":"Trees","хвойні":"conifers","квіти":"flowers","кущі":"shrubs","дерева":"trees","Освітлення: будь-яке":"Light: any","Додати в кошик":"Add to cart","У кошику ✓":"In cart ✓","Нічого не знайдено — змініть фільтри.":"Nothing found — change the filters.","Поки порожньо. Додайте рослини з каталогу.":"Empty for now. Add plants from the catalog.",
 "Туя «Смарагд»":"Thuja ‘Smaragd’","Вузька жива огорожа, що тримає форму цілий рік.":"A narrow living hedge that holds its shape all year.","Ялівець «Блю Стар»":"Juniper ‘Blue Star’","Сріблясто-блакитна подушка для альпійської гірки.":"A silvery-blue cushion for a rock garden.","Ялина колюча «Глаука»":"Blue spruce ‘Glauca’","Сизі гілки — акцент біля входу.":"Blue-grey branches — an accent by the entrance.","Сосна звичайна":"Scots pine","Формована крона й мінімум догляду. Чудово виглядає на терасі.":"Shaped crown and minimal care. Looks great on a terrace.","Троянда «Ред Наомі»":"Rose ‘Red Naomi’","Класичні червоні бутони з довгим цвітінням.":"Classic red buds with long blooming.","Півонія «Сара Бернар»":"Peony ‘Sarah Bernhardt’","Великі рожеві квіти з ніжним ароматом.":"Large pink flowers with a delicate scent.","Лаванда «Гідкот»":"Lavender ‘Hidcote’","Аромат, бджоли й мінімум догляду.":"Fragrance, bees and minimal care.","Ехінацея «Магнус»":"Echinacea ‘Magnus’","Рожеві ромашки до самих заморозків.":"Pink daisies right up to the frosts.","Хоста «Френсіс Вільямс»":"Hosta ‘Frances Williams’","Великі сизо-зелені листки для тіні.":"Big blue-green leaves for shade.","Гортензія волотиста":"Panicle hydrangea","Кремово-рожеві суцвіття-конуси з липня до осені.":"Cream-pink cone blooms from July to autumn.","Барбарис Тунберга «Атропурпуреа»":"Japanese barberry ‘Atropurpurea’","Бордове листя, що червоніє восени.":"Burgundy leaves that turn red in autumn.","Спірея «Шіробана»":"Spirea ‘Shirobana’","Рожево-білі щитки квітів усе літо.":"Pink-and-white flower clusters all summer.","Вейгела «Нана Пурпуреа»":"Weigela ‘Nana Purpurea’","Темне листя й рожеві дзвіночки навесні.":"Dark leaves and pink bells in spring.","Клен японський «Атропурпуреум»":"Japanese maple ‘Atropurpureum’","Філігранне червоне листя для півтіні.":"Delicate red foliage for part shade.","Магнолія «Сузан»":"Magnolia ‘Susan’","Рожево-білі тюльпани-квіти ще до листя.":"Pink-white tulip-shaped flowers before the leaves.","Горобина звичайна":"Rowan","Червоні грона ягід прикрашають осінь.":"Red berry clusters decorate the autumn.","Яблуня декоративна «Роялті»":"Ornamental crabapple ‘Royalty’","Малинове цвітіння і темно-червоні плоди.":"Crimson blossom and dark red fruit.","Троянда кущова червона":"Red shrub rose","Високий кущ, густо вкритий червоними квітами. Ефектний біля ґанку.":"A tall shrub densely covered in red flowers. Striking by the porch.","Камелія японська на штамбі":"Japanese camellia on a stem","Куляста крона з рожевими квітами. Для великого вазона, на зиму — у світле приміщення.":"A round crown with pink flowers. For a large pot; bring it into a bright room for winter.","Півонія жовта":"Yellow peony","Кремово-жовті махрові квіти з теплою серединкою. Цвіте в червні.":"Creamy-yellow double flowers with a warm centre. Blooms in June.",
 "Весна":"Spring","Літо":"Summer","Осінь":"Autumn","Зима":"Winter","Троянди, багаторічники, кущі, плодові дерева":"Roses, perennials, shrubs, fruit trees","Рослини в контейнерах, пряні трави, балконні квіти":"Container plants, herbs, balcony flowers","Хвойні, дерева, кущі, цибулини півоній і тюльпанів":"Conifers, trees, shrubs, peony and tulip bulbs","Планування саду, підготовка ділянки":"Garden planning, plot preparation","Січ":"Jan","Лют":"Feb","Бер":"Mar","Кві":"Apr","Тра":"May","Чер":"Jun","Лип":"Jul","Сер":"Aug","Вер":"Sep","Жов":"Oct","Лис":"Nov","Гру":"Dec","Троянди":"Roses","Півонії":"Peonies","Рослини в контейнерах":"Container plants",
 "Підбір рослин для вашого простору":"Find plants for your space","Де ви садитимете?":"Where will you plant?","Тераса":"Terrace","Балкон":"Balcony","Біля входу":"By the entrance","Скільки сонця на ділянці?":"How much sun does the spot get?","Багато (6+ год)":"A lot (6+ hours)","Здебільшого тінь":"Mostly shade","Скільки часу на догляд?":"How much time for care?","Люблю садівництво":"I love gardening","Трохи можу":"A little","Нехай буде легко":"Keep it easy","Що вам найважливіше?":"What matters most?","Кольорові квіти":"Colourful flowers","Приватність":"Privacy","Просто зелень":"Just greenery","Декоративність":"Decorative look","Ваш добір готовий":"Your selection is ready","Для цих умов нічого не знайшли. Спробуйте змінити відповіді.":"Nothing found for these conditions. Try changing your answers.","Пройти знову":"Start over",
@@ -415,8 +397,6 @@ document.querySelector(".lg").addEventListener("click",e=>{const b=e.target.clos
 run();
 </script>
 <script>
-/* Відео hero вантажиться після повного завантаження сторінки; пропускається при економії трафіку, повільній мережі та prefers-reduced-motion */
-addEventListener('load',function(){var v=document.getElementById('bg-video');if(!v||!v.dataset.src)return;var c=navigator.connection||{};if(matchMedia('(prefers-reduced-motion: reduce)').matches||c.saveData||/(^|-)(2g|3g)$/.test(c.effectiveType||''))return;setTimeout(function(){v.addEventListener('playing',function(){v.classList.add('on')},{once:true});v.src=v.dataset.src;var p=v.play();if(p&&p.catch)p.catch(function(){})},300)});
 </script>
 <script>
 /* кошик: кількість і оформлення замовлення */
@@ -443,7 +423,7 @@ form.addEventListener("submit",e=>{e.preventDefault();if(!form.reportValidity())
 <script>
 /* редизайн: пошук, меню, фото простору = перший крок підбору */
 (function(){
-Object.assign(EN,{"Як це працює":"How it works","Від ідеї до саду — чотири кроки":"From idea to garden in four steps","Підбір":"Selection","Замовлення":"Order","Пакування":"Packing","Посадка":"Planting","Відповідаєте на кілька питань про ділянку, світло й ґрунт — ми пропонуємо рослини, що приживуться.":"You answer a few questions about your plot, light and soil — we suggest plants that will take root.","Додаєте рослини в «Мій сад» і оформлюєте замовлення за хвилину.":"You add plants to “My garden” and place your order in a minute.","Пакуємо в захисні короби із закритим кореневим комом, щоб рослина не відчула дороги.":"We pack plants in protective boxes with a closed root ball, so they barely notice the journey.","Отримуєте за 2–4 дні з інструкцією з посадки та догляду.":"You receive them in 2–4 days with planting and care instructions.","Ваш сад починається з першої рослини":"Your garden starts with the first plant","Підберемо рослини під ваше світло, ґрунт і настрій — і привеземо їх живими та здоровими.":"We’ll match plants to your light, soil and mood — and deliver them alive and healthy.","Затишний будинок у саду з гортензіями":"Cozy house in a garden with hydrangeas","Оцінка 5 з 5":"Rated 5 out of 5","Закрити":"Close","Менше":"Decrease quantity","Більше":"Increase quantity","Меню":"Menu","Мова / Language":"Language","Пошук рослини":"Search plants","Ялина звичайна":"Norway spruce","Класична зелена ялина з густою конічною кроною.":"A classic green spruce with a dense conical crown.","Клен червоний «Атропурпуреум»":"Red maple ‘Atropurpureum’","Створимо сад, де захочеться бути":"We’ll create a garden you’ll want to be in","Продаємо рослини, які перетворять вашу ділянку на сад мрії":"We sell plants that turn your plot into a dream garden"});
+Object.assign(EN,{"Як це працює":"How it works","Від ідеї до саду — чотири кроки":"From idea to garden in four steps","Підбір":"Selection","Замовлення":"Order","Пакування":"Packing","Посадка":"Planting","Відповідаєте на кілька питань про ділянку, світло й ґрунт — ми пропонуємо рослини, що приживуться.":"You answer a few questions about your plot, light and soil — we suggest plants that will take root.","Додаєте рослини в кошик і оформлюєте замовлення за хвилину.":"You add plants to your cart and place your order in a minute.","Пакуємо в захисні короби із закритим кореневим комом, щоб рослина не відчула дороги.":"We pack plants in protective boxes with a closed root ball, so they barely notice the journey.","Отримуєте за 2–4 дні з інструкцією з посадки та догляду.":"You receive them in 2–4 days with planting and care instructions.","Ваш сад починається з першої рослини":"Your garden starts with the first plant","Підберемо рослини під ваше світло, ґрунт і настрій — і привеземо їх живими та здоровими.":"We’ll match plants to your light, soil and mood — and deliver them alive and healthy.","Затишний будинок у саду з гортензіями":"Cozy house in a garden with hydrangeas","Оцінка 5 з 5":"Rated 5 out of 5","Закрити":"Close","Менше":"Decrease quantity","Більше":"Increase quantity","Меню":"Menu","Мова / Language":"Language","Пошук рослини":"Search plants","Ялина звичайна":"Norway spruce","Класична зелена ялина з густою конічною кроною.":"A classic green spruce with a dense conical crown.","Клен червоний «Атропурпуреум»":"Red maple ‘Atropurpureum’","Створимо сад, де захочеться бути":"We’ll create a garden you’ll want to be in","Продаємо рослини, які перетворять":"We sell plants that turn","вашу ділянку на сад мрії":"your plot into a dream garden"});
 $("#q").addEventListener("input",list);
 const ph=()=>{$("#q").placeholder=L=="en"?"Search plants":"Пошук рослини"};ph();
 document.querySelector(".lg").addEventListener("click",ph);
